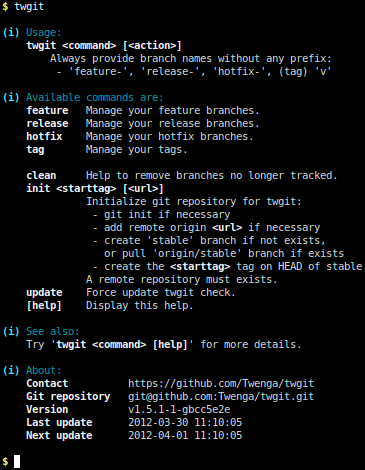
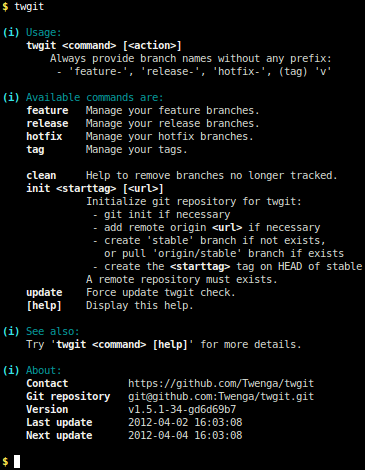
Update CHANGELOG and screenshots.

Changed region(s): [[0.4521, 0.8638, 0.663, 0.9532]]

diff --git a/CHANGELOG.md b/CHANGELOG.md
@@ -1,6 +1,36 @@
 ChangeLog
 =========
 
+## Version 1.6.0 (2012-04-02)
+
+Features:
+
+  - #41: Add subject in commit messages of `twgit feature start` when a connector (github, redmine) is setted.
+**Must update** `TWGIT_FIRST_COMMIT_MSG` parameter of `conf/twgit.sh` :
+
+```bash
+TWGIT_FIRST_COMMIT_MSG="${TWGIT_PREFIX_COMMIT_MSG}Init %s '%s'%s."
+```
+
+  - #40: Make scripts more secure if a bad branch is created with the same name of a tag.
+  - #38: Add `twgit feature status [<featurename>]`
+  - #37: Check not exists branches with same name as tag
+
+Unit tests:
+
+  - #34: Add unit tests on `get_features()` and other similar functions
+  - estimated code coverage: 22%
+
+Doc:
+
+  - #42: Add some doc to README: Getting started, help on command prompt, ...
+
+Fix:
+
+  - #44: Installer creates conf/twgit.sh with root permissions
+  - #43: Help on command prompt is not accessible if not in a git repository
+  - #39: Error message when twgit release reset: `/!\ Tag 'vx.y.z' already exists!`
+
 ## Version 1.5.1 (2012-03-05)
 
 Fixes:
